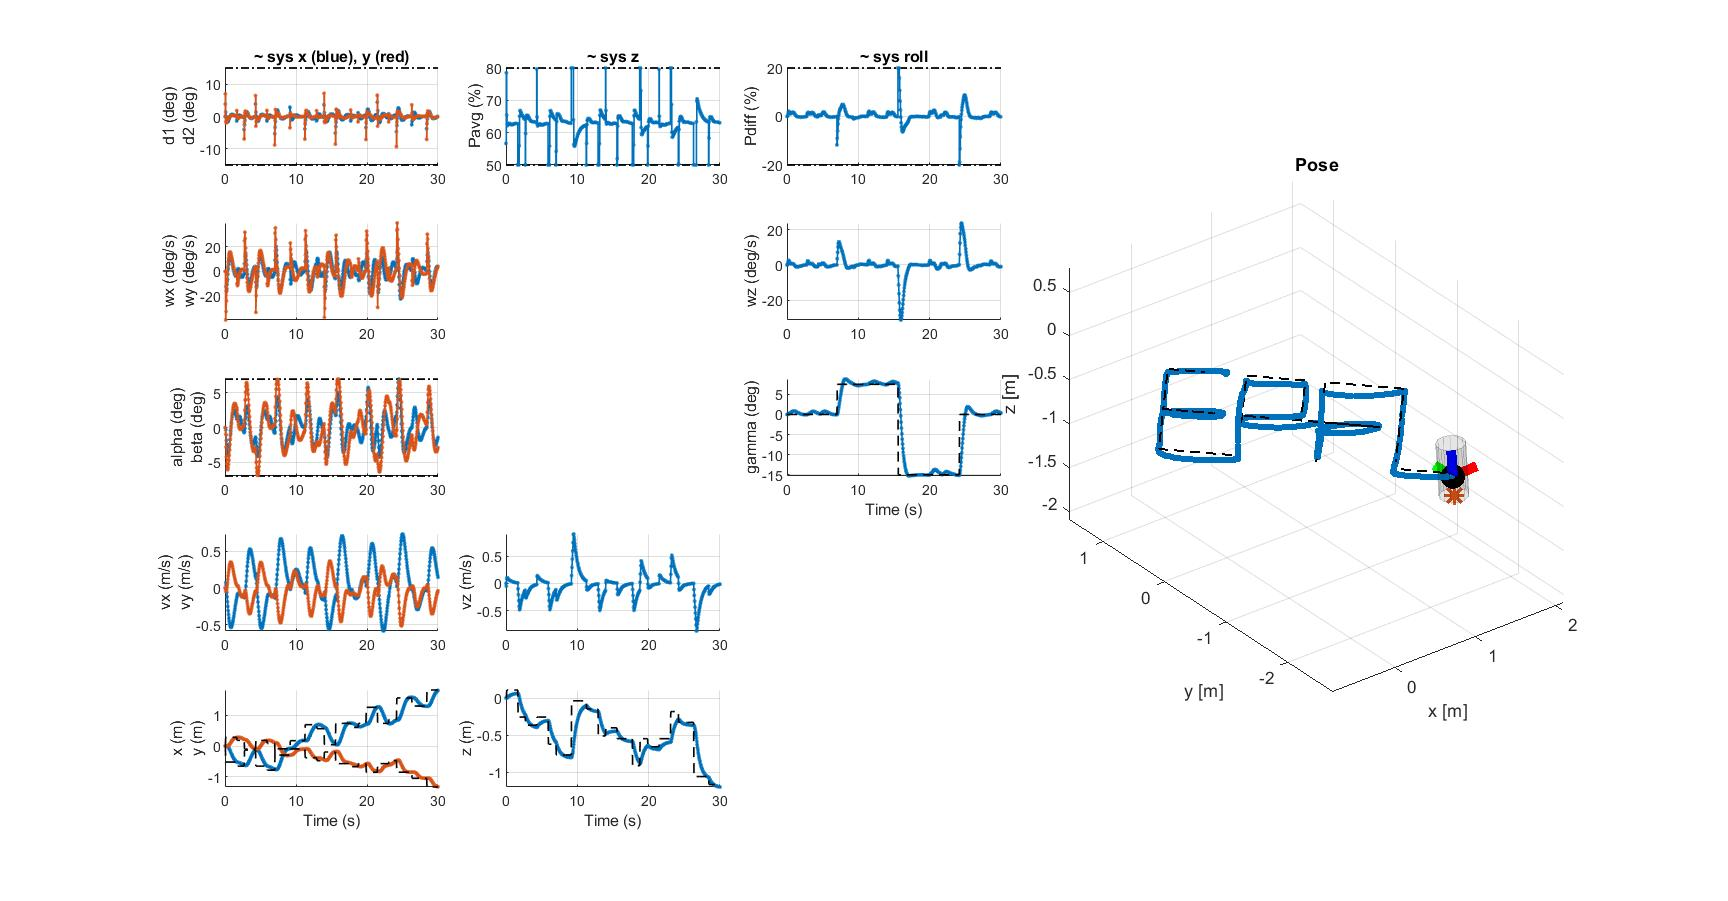
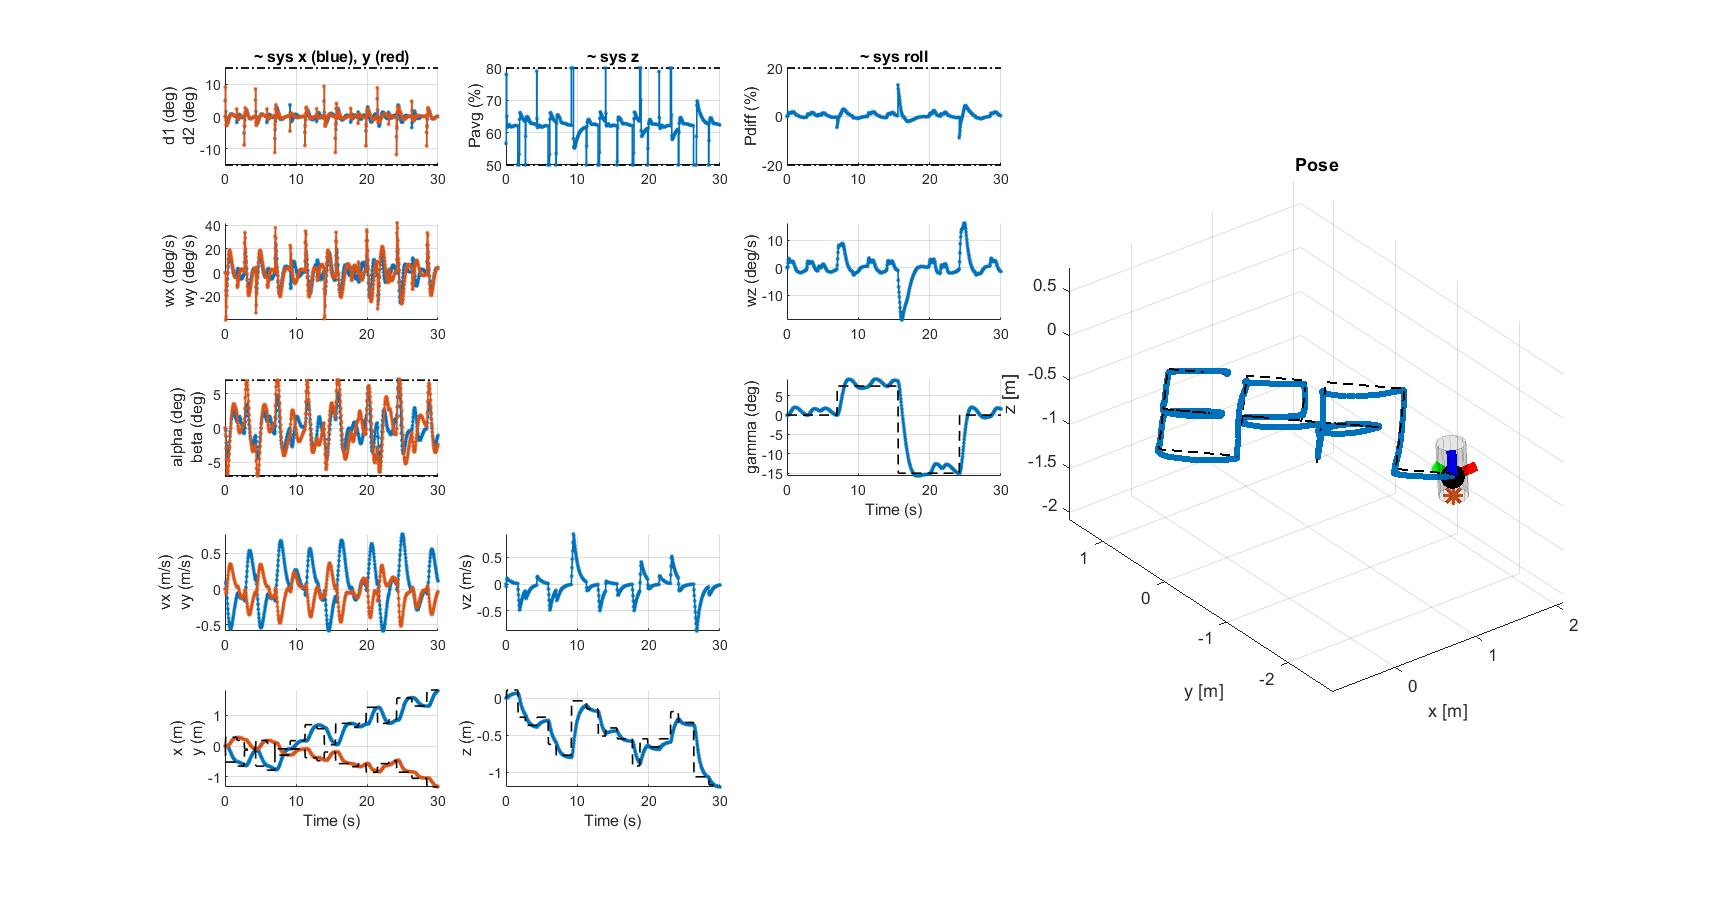
4.1 tuning

diff --git a/Deliverable_4_1/MpcControl_y.m b/Deliverable_4_1/MpcControl_y.m
@@ -45,8 +45,8 @@ classdef MpcControl_y < MpcControlBase
             m = [deg2rad(15);deg2rad(15)]; 
              
             % Cost matrices 
-            Q = diag([5,10,10,100]);
-            R = 1000;
+            Q = diag([10,20,20,150]);
+            R = 800;
 
             
             % OBJECTIVE and CONSTRAINTS 

diff --git a/Deliverable_4_1/MpcControl_roll.m b/Deliverable_4_1/MpcControl_roll.m
@@ -48,8 +48,8 @@ classdef MpcControl_roll < MpcControlBase
             m = [20;20]; 
              
             % Cost matrices 
-            Q = diag([100, 10000]); 
-            R = 1; 
+            Q = diag([80, 6000]); 
+            R = 5; 
 
             
             % OBJECTIVE and CONSTRAINTS 
